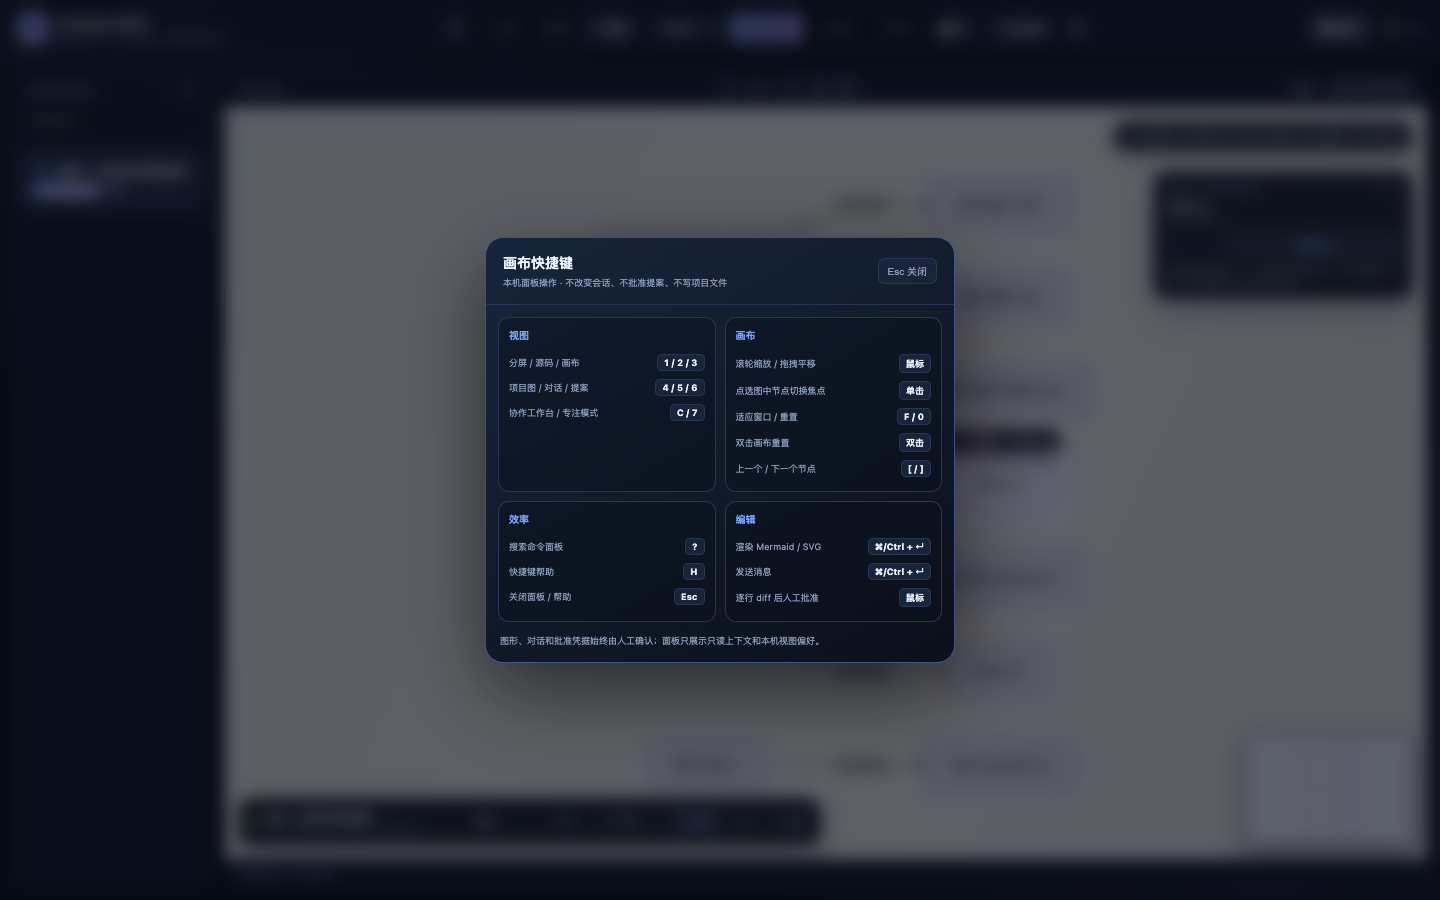
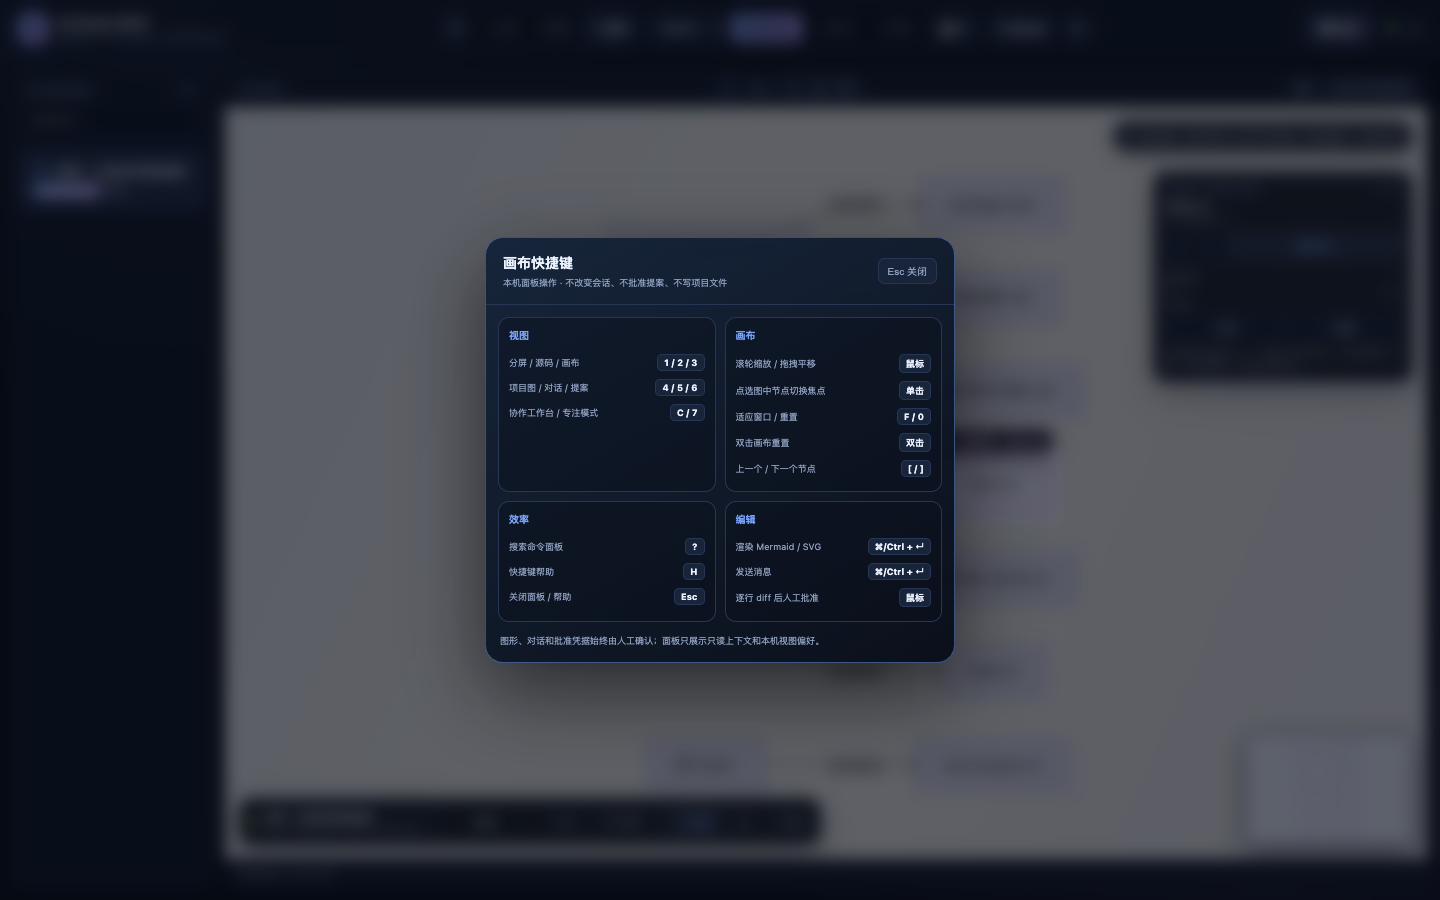
feat: add focus object actions

Changed region(s): [[0.7812, 0.3111, 1.0, 0.4356]]

diff --git a/src/infra/templates/index.html b/src/infra/templates/index.html
@@ -462,6 +462,11 @@
     .canvas-object-actions button { height: 25px; padding: 0 8px; border: 1px solid var(--border); border-radius: 7px; background: var(--surface2); color: var(--text-muted); font-size: 9px; cursor: pointer; }
     .canvas-object-actions button:hover { border-color: rgba(122,162,247,.62); color: var(--text); }
     .canvas-object-actions button.primary { flex: 1; border-color: rgba(122,162,247,.42); background: rgba(122,162,247,.14); color: var(--accent); font-weight: 700; }
+    .canvas-object-stats { display: flex; align-items: center; justify-content: space-between; gap: 8px; margin-top: 7px; padding-top: 7px; border-top: 1px solid var(--border); color: var(--text-muted); font-size: 8px; }
+    .canvas-object-stats strong { color: var(--accent2); font-variant-numeric: tabular-nums; }
+    .canvas-object-actions.secondary { margin-top: 5px; gap: 4px; }
+    .canvas-object-actions.secondary button { flex: 1; padding: 0 5px; color: var(--text); font-size: 8px; white-space: nowrap; }
+    .canvas-object-actions button:disabled { opacity: .45; cursor: not-allowed; transform: none; }
     .canvas-object-note { margin-top: 7px; color: var(--text-muted); font-size: 8px; line-height: 1.45; }
     body.theme-light .canvas-object-card { background: rgba(255,255,255,.94); }
     @media (max-width: 860px) { .canvas-object-card { width: 220px; } }
@@ -1221,6 +1226,11 @@
               <button type="button" id="btnCanvasNextNode" title="下一个节点">→</button>
               <button type="button" id="btnCanvasOpenNode" class="primary" title="在协作工作台查看项目图">查看节点</button>
             </div>
+            <div class="canvas-object-stats"><span>直接关联 <strong id="canvasRelatedCount">0</strong> 个对象</span><span id="canvasFocusRevision">rev —</span></div>
+            <div class="canvas-object-actions secondary">
+              <button type="button" id="btnCanvasRelatedNode" title="沿真实连线切换到相邻对象">↗ 关联</button>
+              <button type="button" id="btnCanvasCopyFocus" title="复制只读焦点上下文给 AI">⧉ 复制</button>
+            </div>
             <div class="canvas-object-note">点击图中节点或按 `← / →` 切换；焦点只表达「人正在指哪个对象」，不签发凭据、不自动写项目文件。</div>
           </aside>
         </div>
@@ -1828,6 +1838,8 @@ $('#btnCanvasHelp').addEventListener('click', () => openShortcutDialog());
 $('#btnCanvasPrevNode').addEventListener('click', () => stepCanvasFocus(-1));
 $('#btnCanvasNextNode').addEventListener('click', () => stepCanvasFocus(1));
 $('#btnCanvasOpenNode').addEventListener('click', () => { openCollab(); setCollabTab('graph'); });
+$('#btnCanvasRelatedNode').addEventListener('click', stepRelatedCanvasFocus);
+$('#btnCanvasCopyFocus').addEventListener('click', copyCanvasFocusContext);
 
 // Keyboard: F=fit, 0=reset, +/- zoom
 window.addEventListener('keydown', (e) => {
@@ -2402,6 +2414,8 @@ const COMMANDS = [
   { group: '协作流程', icon: '◇', title: '载入示例图形', hint: '只写入本机编辑器并渲染预览', shortcut: '', keys: '示例 demo mermaid', run: () => loadExampleDiagram() },
   { group: '协作流程', icon: '↔', title: '解释这张图', hint: '把只读结构说明插入意图草稿，不发送', shortcut: '', keys: '意图 模板 解释 结构', run: () => { openCollab(); setCollabTab('dialog'); insertIntentPreset(document.querySelector('[data-intent-preset="describe"]')); } },
   { group: '协作流程', icon: '→', title: '切换下一个节点', hint: '把只读焦点移到下一个项目结构节点', shortcut: ']', keys: '节点 焦点 next object', run: () => stepCanvasFocus(1) },
+  { group: '协作流程', icon: '↗', title: '跳到关联对象', hint: '沿真实连线切换当前只读焦点', shortcut: '', keys: '关联 相邻 边 edge 对象', run: () => stepRelatedCanvasFocus() },
+  { group: '协作流程', icon: '⧉', title: '复制焦点上下文', hint: '复制当前节点的只读上下文提示给 AI', shortcut: '', keys: '复制 焦点 上下文 context', run: () => copyCanvasFocusContext() },
   { group: '外观与帮助', icon: '☀', title: '切换浅色 / 深色主题', hint: '只影响本机界面，不改图主题', shortcut: '', keys: '主题 浅色 深色 theme', run: () => setUiTheme(prefs.uiTheme === 'light' ? 'dark' : 'light') },
   { group: '外观与帮助', icon: '⚙', title: '打开外观设置', hint: '主题、密度、预览背景与图表库', shortcut: '', keys: '外观 设置 快捷键 appearance', run: () => setAppearanceOpen(true) },
   { group: '外观与帮助', icon: '?', title: '打开快捷键帮助', hint: '查看视图、画布、效率与编辑快捷键', shortcut: 'H', keys: '帮助 快捷键 help keyboard', run: () => openShortcutDialog() },
@@ -2963,13 +2977,63 @@ function stepCanvasFocus(direction) {
   setCanvasFocusNode(nodes[next].id);
 }
 
+function relatedCanvasNodeIds(nodeId = selectedNodeId) {
+  if (!nodeId) return [];
+  const related = new Set();
+  for (const edge of collabGraph?.edges || []) {
+    if (edge.from === nodeId && edge.to !== nodeId) related.add(edge.to);
+    if (edge.to === nodeId && edge.from !== nodeId) related.add(edge.from);
+  }
+  return (collabGraph?.nodes || []).filter((node) => related.has(node.id)).map((node) => node.id);
+}
+
+function stepRelatedCanvasFocus() {
+  const relatedIds = relatedCanvasNodeIds();
+  if (!relatedIds.length) return showToast('当前对象没有直接关联节点；仍可点选其他对象');
+  const currentIndex = relatedIds.indexOf(selectedNodeId);
+  const nextIndex = currentIndex < 0 ? 0 : (currentIndex + 1) % relatedIds.length;
+  const nextId = relatedIds[nextIndex] === selectedNodeId
+    ? relatedIds[(nextIndex + 1) % relatedIds.length]
+    : relatedIds[nextIndex];
+  setCanvasFocusNode(nextId);
+}
+
+async function copyCanvasFocusContext() {
+  const node = (collabGraph?.nodes || []).find((item) => item.id === selectedNodeId);
+  if (!node) return showToast('先让 AI 扫描项目，并在画布上选中一个对象');
+  const relatedIds = relatedCanvasNodeIds(node.id);
+  const relatedLabels = (collabGraph?.nodes || [])
+    .filter((item) => relatedIds.includes(item.id))
+    .map((item) => `${item.label}${item.path ? ` (${item.path})` : ''}`);
+  const prompt = [
+    '请调用 get_visual_context 与 get_node_context 读取同一份 version 1 会话；下面是人在画布上指向的只读对象：',
+    `焦点：${node.label}${node.path ? ` · ${node.path}` : ''} · ${node.id}`,
+    `图修订：rev ${collabRevision} · 直接关联 ${relatedIds.length} 个对象`,
+    relatedLabels.length ? `关联对象：${relatedLabels.join('、')}` : '关联对象：无',
+    '',
+    '请先解释这个对象及相邻关系；如需改变项目文件，仍须 preflight_visual_proposal、完整逐行 diff、人工批准与一次性确认号。此提示不含批准凭据，也不授权写入。',
+  ].join('\n');
+  try {
+    await navigator.clipboard.writeText(prompt);
+    showToast('已复制只读焦点上下文；不含确认号、绝对路径或写入授权');
+  } catch {
+    $('#messageInput').value = prompt;
+    $('#messageInput').focus();
+    showToast('剪贴板不可用，已把只读焦点提示放入消息框（尚未发送）');
+  }
+}
+
 function renderCanvasObject() {
   const nodes = collabGraph?.nodes || [];
   const current = Math.max(0, nodes.findIndex((node) => node.id === selectedNodeId));
   const node = nodes[current];
+  const relatedCount = relatedCanvasNodeIds(node?.id).length;
   $('#canvasObjectIndex').textContent = nodes.length ? `${current + 1} / ${nodes.length}` : '0 / 0';
   $('#canvasObjectLabel').textContent = node?.label || '等待项目结构图';
   $('#canvasObjectPath').textContent = node?.path || '选中节点后作为 AI 的只读上下文';
+  $('#canvasRelatedCount').textContent = String(relatedCount);
+  $('#canvasFocusRevision').textContent = `rev ${Number.isFinite(collabRevision) ? collabRevision : '—'}`;
+  $('#btnCanvasRelatedNode').disabled = !relatedCount;
   $('#canvasObjectCard').title = node
     ? `${node.label} · ${node.path || '无路径'} · 只读焦点`
     : '项目结构图加载后可切换节点';

diff --git a/CHANGELOG.md b/CHANGELOG.md
@@ -12,6 +12,7 @@ The format is based on [Keep a Changelog](https://keepachangelog.com/en/1.1.0/),
 
 ### Maintenance
 
+- 焦点对象操作面（2026-11-06 13:55 CST）：对象卡新增直接关联数量与当前图修订，「关联对象」沿真实连线切换焦点，「复制上下文」生成版本化、只读、无凭据的 AI 提示；命令面板也加入这两个动作。关联导航只使用已加载的 `VisualGraph` 边与节点，「复制上下文」不调用服务端、不自动发送、不写项目文件；浏览器回归、离线守卫、README 与截图同步覆盖。
 - 画布视觉层次（2026-11-06 13:45 CST）：预览区新增随浅色/深色主题变化的柔和线性渐变，焦点环改为更清晰的静态紫色光晕；缩放/平移使用克制过渡，点选焦点时生成一次性涟漪。系统开启「减少动态效果」时自动停用所有新增动效。只改本机视图层，不改 SVG 内容、图修订、会话、只读 focus 语义或写入闸门；README、离线守卫、截图与浏览器回归同步覆盖。
 - 画布对象聚光与点选（2026-11-06 13:35 CST）：画布当前焦点节点新增柔和聚光罩、跟随标签与更强的紫色描边，其他区域轻微暗化但保持可读；可直接单击真实 Mermaid 结构图中的节点切换焦点，拖拽平移仍保持原手势。点选只调用既有只读 focus 接口，不新增工具、不改图修订、不签发凭据、不自动写项目文件；画布提示、快捷键帮助、README、截图脚本、浏览器回归与离线守卫同步覆盖。
 - 画布焦点高亮环（2026-11-06 13:20 CST）：当前只读焦点节点在真实 Mermaid 结构图上新增紫色描边、柔和脉冲环与 5px 安全留白；按扫描节点 id 精确匹配 `g.nodes` 下的真实节点，排除连线标签，且在画布视图、当前图与协作会话一致时才显示。高亮环在节点切换、渲染完成、缩放和平移时按屏幕坐标重新定位，让「对象焦点」卡与图形本体始终指向同一个对象；不改变 SVG 内容、图修订、会话或写入闸门。浏览器回归、离线守卫、README 与可复现画布截图同步覆盖。

diff --git a/README.md b/README.md
@@ -47,7 +47,7 @@
 
 画布工作区截图由 `npm run ui:shots` 使用临时示例项目可复现生成：AI 扫描出的目录与文件先成为一张真实结构图，人类把它切到全屏画布视图，再用浮动操作条控制视口与协作入口。截图里的示例节点、对话和提案只存在于临时会话，不代表仓库文件被自动修改。
 
-画布右上角的「对象焦点」卡显示当前节点名称、序号和路径；可直接单击结构图上的节点，或用 `← / →` 按钮、`[ / ]`、命令面板切换。当前节点会显示紫色描边、聚光罩、静态光晕与跟随标签，并随缩放/平移实时跟随。切换同步既有只读 focus 上下文，让人和 AI 看到同一个对象，但不会签发凭据、创建提案或写项目文件。点击「查看节点」会进入协作工作台的项目图栏。
+画布右上角的「对象焦点」卡显示当前节点名称、序号、路径、图修订与直接关联对象数；可直接单击结构图上的节点，或用 `← / →` 按钮、`[ / ]`、命令面板切换。「关联对象」沿真实连线跳到相邻节点，「复制上下文」生成不含凭据或绝对路径的只读提示，方便交给 AI。当前节点会显示紫色描边、聚光罩、静态光晕与跟随标签，并随缩放/平移实时跟随。切换同步既有只读 focus 上下文，让人和 AI 看到同一个对象，但不会签发凭据、创建提案或写项目文件。点击「查看节点」会进入协作工作台的项目图栏。
 
 ![AI Draw MCP 画布快捷键帮助](https://raw.githubusercontent.com/2648782102/ai-draw-mcp/master/docs/canvas-shortcuts-panel.png)
 
